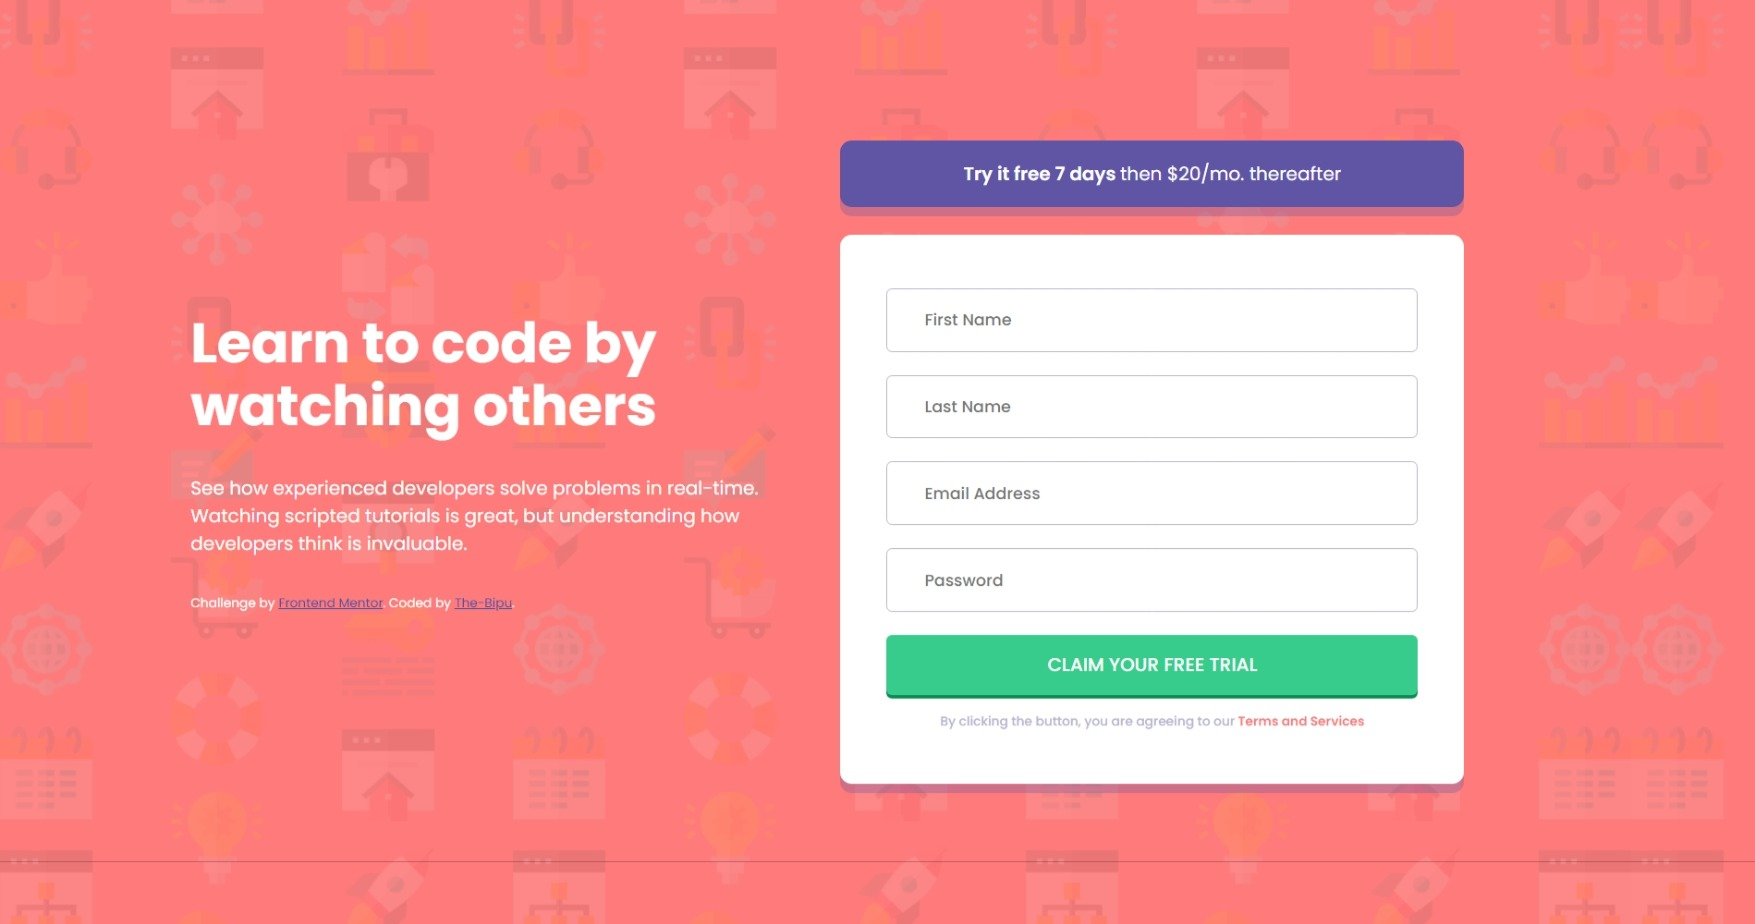
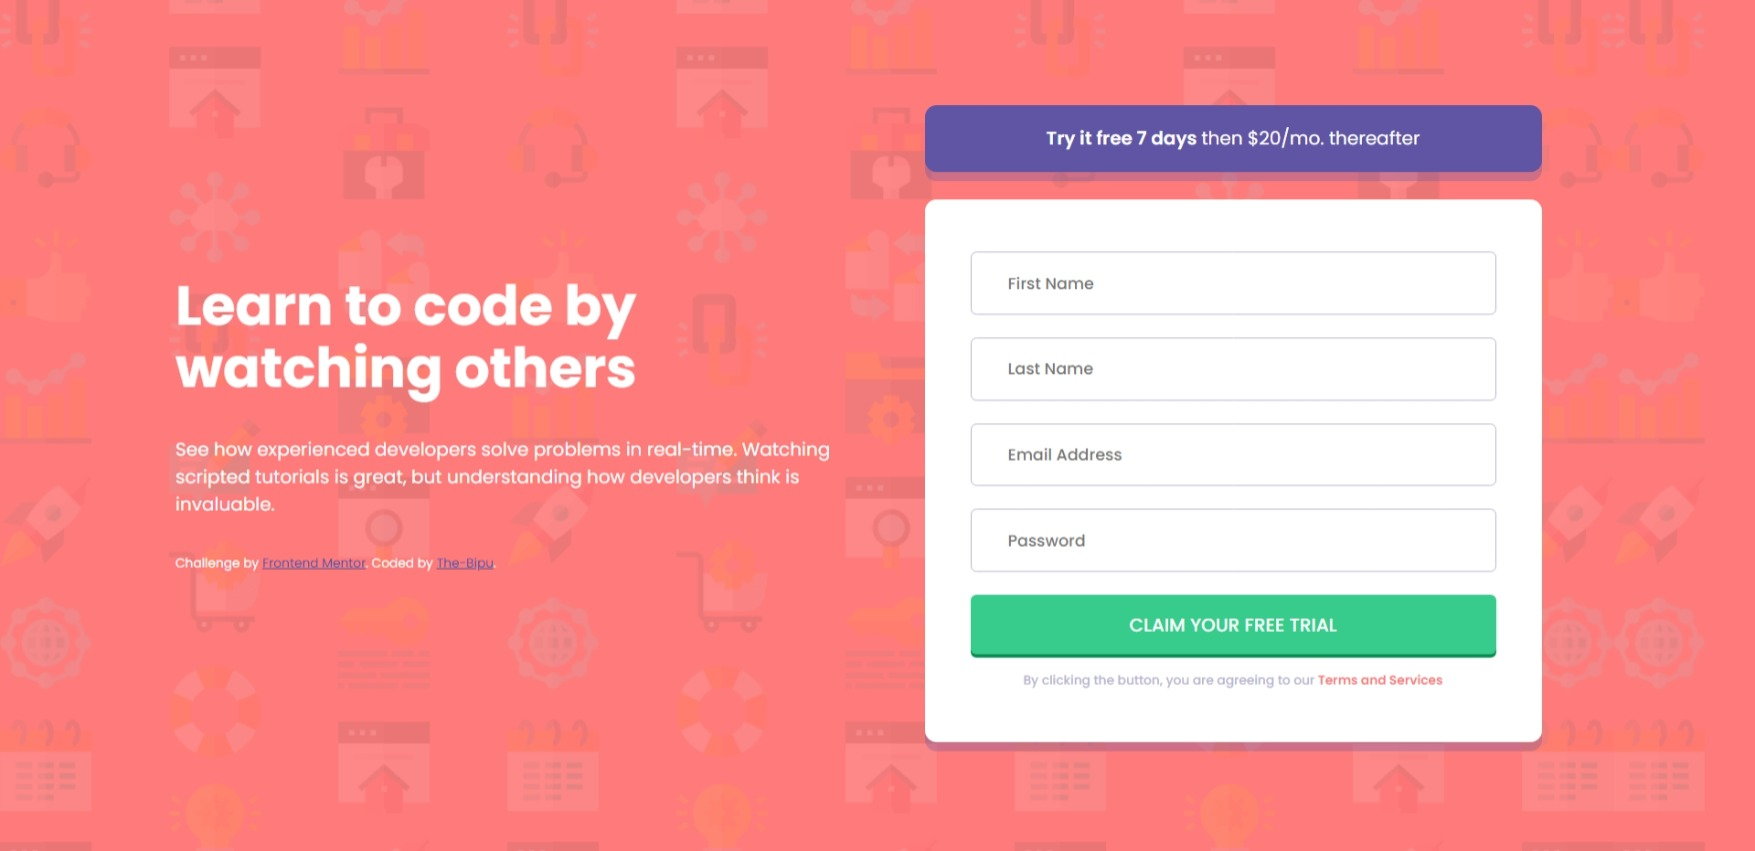
Responsiveness
The challenge was completed but the responsiveness was missing and now the page is fully responsive. The task is now complete.

Date: 20 August 2023

diff --git a/public/style.css b/public/style.css
@@ -8,8 +8,10 @@ body {
     font-family: 'Poppins', sans-serif;
     font-size: 16px;
 
-    width: 1440px;
-    height: 800px;
+    max-width: 100vw;
+    min-width: auto;
+    /* height: 800px; */
+    height: auto;
     background: url(./images/bg-intro-desktop.png);
     background-color: hsl(0, 100%, 74%);
 
@@ -29,14 +31,17 @@ body {
 }
 
 .container {
-    margin: 120px 165px;
+    margin: 6% 10%;
+    /* margin: 120px 167px; */
 
     display: flex;
     flex-direction: row;
+    gap: 1rem;
 }
 
 .con1-div1 {
     width: 50%;
+
     display: flex;
     flex-direction: column;
     align-items: flex-start;
@@ -68,7 +73,8 @@ body {
 }
 
 .con1-div2-1 {
-    width: 540px;
+    width: 100%;
+    max-width: 540px;
     height: 58px;
 
     background-color: hsl(248, 32%, 49%);
@@ -87,7 +93,10 @@ body {
 }
 
 .con1-div2-2 {
-    width: 540px;
+    width: 100%;
+    max-width: 540px;
+    /* width: 540px; */
+
     min-height: 475px;
     max-height: 562px;
 
@@ -209,4 +218,110 @@ button:hover {
 .terms span {
     font-weight: 600;
     color: hsl(0, 100%, 74%);
+}
+
+@media(max-width:900px) {
+
+    body {
+        width: 100vw;
+
+        display: grid;
+        place-content: center;
+    }
+
+    .container { 
+        max-width: 88vw;
+        margin: 0;
+
+        display: flex;
+        flex-direction: column;
+        align-items: center;
+        justify-content: center;
+
+        gap: 3rem;
+    }
+
+    .con1-div1 {
+        width: 100%;
+        margin: 0;
+        margin-top: 5rem;
+        padding: .5rem;
+        text-align: center;
+
+        display: flex;
+        flex-direction: column;
+        align-items: center;
+        justify-content: center;
+    }
+    
+    .con1-div2 {
+        width: 100%;
+        margin: 0;
+    
+        display: flex;
+        flex-direction: column;
+        align-items: center;
+        justify-content: center;
+    
+        gap: 1.5rem;
+    }
+
+    .heading {
+        color: hsl(0, 10%, 100%);
+        font-size: 1.6rem;
+        line-height: 2rem;
+    
+        font-weight: 700;
+        margin-bottom: 2rem;
+    }
+    
+    .about {
+        text-align: center;
+        font-weight: 500;
+        color: hsl(0, 10%, 100%);
+    }
+
+    .con1-div2-1 {
+        width: 100%;
+        max-height: 88px;
+        min-height: 58px;
+        padding-left: 50px;
+        padding-right: 50px;
+        text-align: center;
+    
+        display: grid;
+        place-content: center;
+    }
+    
+    .con1-div2-2 {
+        width: 100%;
+        min-height: 442px;
+        max-height: 562px;
+    
+        padding: 24px;
+        margin-bottom: 4rem;
+    
+        background-color: hsl(0, 10%, 100%);
+        border-radius: 10px;
+    
+        box-shadow: 0 8px hsla(248, 32%, 49%, 0.3);
+    
+        display: flex;
+        flex-direction: column;
+        align-items: center;
+        justify-content: center;
+    }
+
+    .terms {
+        text-align: center;
+    }
+
+}
+
+@media(max-width:375px){
+
+    .con1-div2-1 {
+        padding: 50px;
+    }
+
 }
